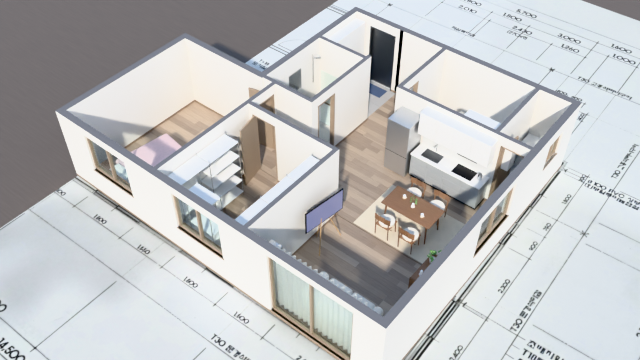
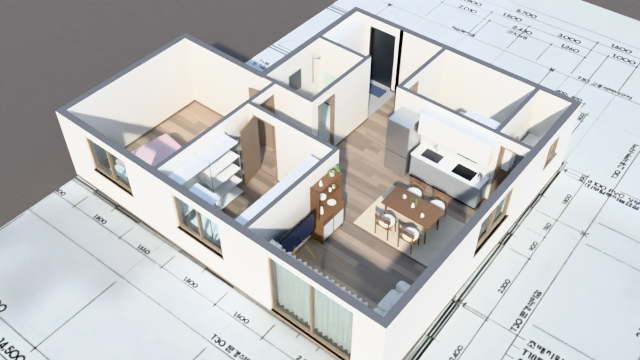
Move sofa across from the TV, hutch beside it
Claude-Session: https://claude.ai/code/session_011EH9rtECRf1k1R2CoNo47H

diff --git a/blueprint/floor2/house.py b/blueprint/floor2/house.py
@@ -561,16 +561,16 @@ def furnish():
     S = STAGE
     # ---- living: sofa before the sheer south window, TV on an easel by the west wall, cabinets on the east wall
     S[0] = "furniture"
-    sofa(8.75, 0.95)
+    sofa(9.88, 1.4, yaw=0)   # across the room from the TV
     box("aircon", 6.95, 7.3, 0.22, 0.55, 0.0, 1.85, "silver", 0.03, 3)
     box("aircon_vent", 7.0, 7.25, 0.552, 0.556, 1.35, 1.75, "steel")
     # TV on a tripod easel
-    tvr = ((7.02, 2.45), -8)
-    box("tv", 6.98, 7.01, 1.8, 3.1, 0.82, 1.56, "screen", 0.004, rot=tvr)
-    box("tv_art", 7.01, 7.013, 1.83, 3.07, 0.85, 1.53, "art", rot=tvr)
-    rod("easel_leg_a", (7.2, 2.0, 0), (6.95, 2.4, 1.2), 0.016, "oak2", r2=0.012)
-    rod("easel_leg_b", (7.2, 2.9, 0), (6.95, 2.5, 1.2), 0.016, "oak2", r2=0.012)
-    rod("easel_leg_c", (6.75, 2.45, 0), (6.93, 2.45, 1.2), 0.016, "oak2", r2=0.012)
+    tvr = ((7.02, 1.4), 0)
+    box("tv", 6.98, 7.01, 0.75, 2.05, 0.82, 1.56, "screen", 0.004, rot=tvr)
+    box("tv_art", 7.01, 7.013, 0.78, 2.02, 0.85, 1.53, "art", rot=tvr)
+    rod("easel_leg_a", (7.2, 0.95, 0), (6.95, 1.35, 1.2), 0.016, "oak2", r2=0.012)
+    rod("easel_leg_b", (7.2, 1.85, 0), (6.95, 1.45, 1.2), 0.016, "oak2", r2=0.012)
+    rod("easel_leg_c", (6.75, 1.4, 0), (6.93, 1.4, 1.2), 0.016, "oak2", r2=0.012)
     # sideboard with the oven and rice cooker, then the hutch
     S[0] = "builtin"
     box("sideboard", 9.98, 10.38, 2.55, 3.6, 0.04, 0.92, "walnut", 0.006)
@@ -581,26 +581,29 @@ def furnish():
     box("rice_cooker", 10.02, 10.28, 2.66, 2.98, 0.5, 0.72, "white", 0.06, 4)
     for i in range(2):
         box("sideboard_drawer", 9.972, 9.98, 2.57 + 0.52 * i, 3.07 + 0.52 * i, 0.08, 0.47, "walnut", 0.003)
-    box("hutch_base", 9.98, 10.38, 1.55, 2.47, 0.12, 0.95, "walnut", 0.006)
+    # the hutch stands on the west wall beside the TV (mirrored from the east wall, shifted north)
+    hb = lambda n, x0, x1, y0, y1, *a, **k: box(n, 17.04 - x1, 17.04 - x0, y0 + 0.75, y1 + 0.75, *a, **k)
+    hc = lambda n, x, y, *a, **k: cyl(n, 17.04 - x, y + 0.75, *a, **k)
+    hb("hutch_base", 9.98, 10.38, 1.55, 2.47, 0.12, 0.95, "walnut", 0.006)
     for i in range(2):
-        box("hutch_glass", 9.972, 9.98, 1.6 + 0.43 * i, 1.99 + 0.43 * i, 0.18, 0.72, "ribbed")
-        box("hutch_drawer", 9.972, 9.98, 1.58 + 0.44 * i, 2.0 + 0.44 * i, 0.76, 0.92, "walnut", 0.003)
+        hb("hutch_glass", 9.972, 9.98, 1.6 + 0.43 * i, 1.99 + 0.43 * i, 0.18, 0.72, "ribbed")
+        hb("hutch_drawer", 9.972, 9.98, 1.58 + 0.44 * i, 2.0 + 0.44 * i, 0.76, 0.92, "walnut", 0.003)
     for i, y in enumerate((1.6, 2.42)):
-        cyl(f"hutch_foot{i}", 10.02, y, 0.015, 0, 0.12, "black", verts=8)
-    box("hutch_side_a", 10.1, 10.38, 1.55, 1.58, 0.95, 1.95, "walnut"); box("hutch_side_b", 10.1, 10.38, 2.44, 2.47, 0.95, 1.95, "walnut")
+        hc(f"hutch_foot{i}", 10.02, y, 0.015, 0, 0.12, "black", verts=8)
+    hb("hutch_side_a", 10.1, 10.38, 1.55, 1.58, 0.95, 1.95, "walnut"); hb("hutch_side_b", 10.1, 10.38, 2.44, 2.47, 0.95, 1.95, "walnut")
     for z in (1.42, 1.9):
-        box("hutch_shelf", 10.1, 10.38, 1.58, 2.44, z, z + 0.025, "walnut")
+        hb("hutch_shelf", 10.1, 10.38, 1.58, 2.44, z, z + 0.025, "walnut")
     S[0] = "decor"
-    cyl("jug", 10.2, 1.78, 0.06, 0.95, 1.16, "ceramic", r2=0.035); cyl("dish", 10.2, 2.2, 0.05, 0.95, 0.99, "ceramic", r2=0.12)
+    hc("jug", 10.2, 1.78, 0.06, 0.95, 1.16, "ceramic", r2=0.035); hc("dish", 10.2, 2.2, 0.05, 0.95, 0.99, "ceramic", r2=0.12)
     for i in range(3):
-        cyl("plate", 10.24, 1.85, 0.11, 1.445 + 0.012 * i, 1.455 + 0.012 * i, "ceramic")
-    cyl("cup_a", 10.22, 2.15, 0.04, 1.445, 1.53, "ceramic"); cyl("cup_b", 10.22, 2.3, 0.04, 1.445, 1.53, "ceramic")
-    cyl("top_vase", 10.24, 1.8, 0.05, 1.925, 2.06, "ceramic", r2=0.025)
-    cyl("top_pot", 10.24, 2.25, 0.06, 1.925, 2.03, "pot", r2=0.075)
+        hc("plate", 10.24, 1.85, 0.11, 1.445 + 0.012 * i, 1.455 + 0.012 * i, "ceramic")
+    hc("cup_a", 10.22, 2.15, 0.04, 1.445, 1.53, "ceramic"); hc("cup_b", 10.22, 2.3, 0.04, 1.445, 1.53, "ceramic")
+    hc("top_vase", 10.24, 1.8, 0.05, 1.925, 2.06, "ceramic", r2=0.025)
+    hc("top_pot", 10.24, 2.25, 0.06, 1.925, 2.03, "pot", r2=0.075)
     for i in range(14):
         o = ball("ivy", 0, 0, 0, 0.05, "leaf2", squash=(1, 0.7, 0.2))
         t = i / 13
-        o.location = (10.2 - 0.08 * math.sin(i * 2.3), 2.25 + 0.14 * math.cos(i * 1.9) + 0.12 * t, 2.1 - 0.75 * t ** 1.5 * (i % 2))
+        o.location = (6.84 + 0.08 * math.sin(i * 2.3), 3.0 + 0.14 * math.cos(i * 1.9) + 0.12 * t, 2.1 - 0.75 * t ** 1.5 * (i % 2))
         o.rotation_euler = (0.5, 0.4, i * 2.3); o["home"] = tuple(o.location)
     cyl("side_vase", 10.18, 2.75, 0.07, 0.92, 1.08, "pot", r2=0.045)
     for i in range(7):
